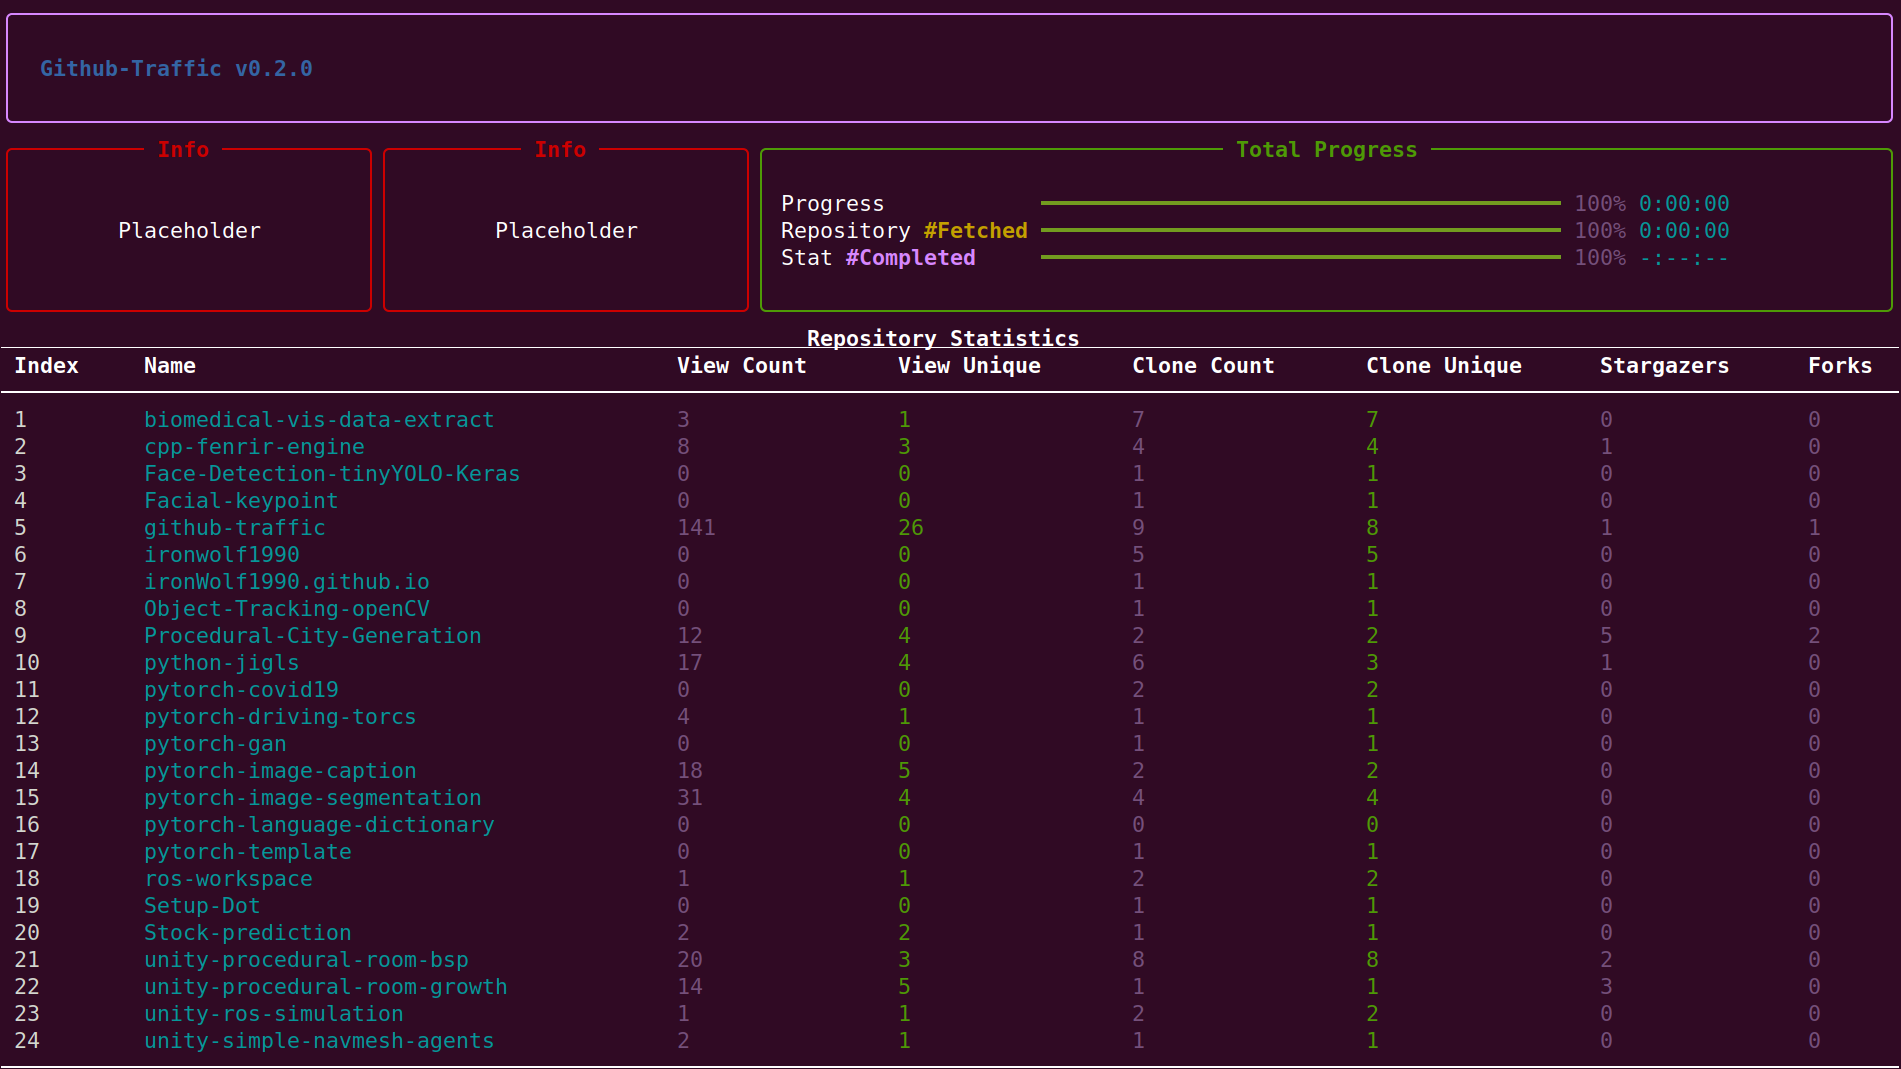
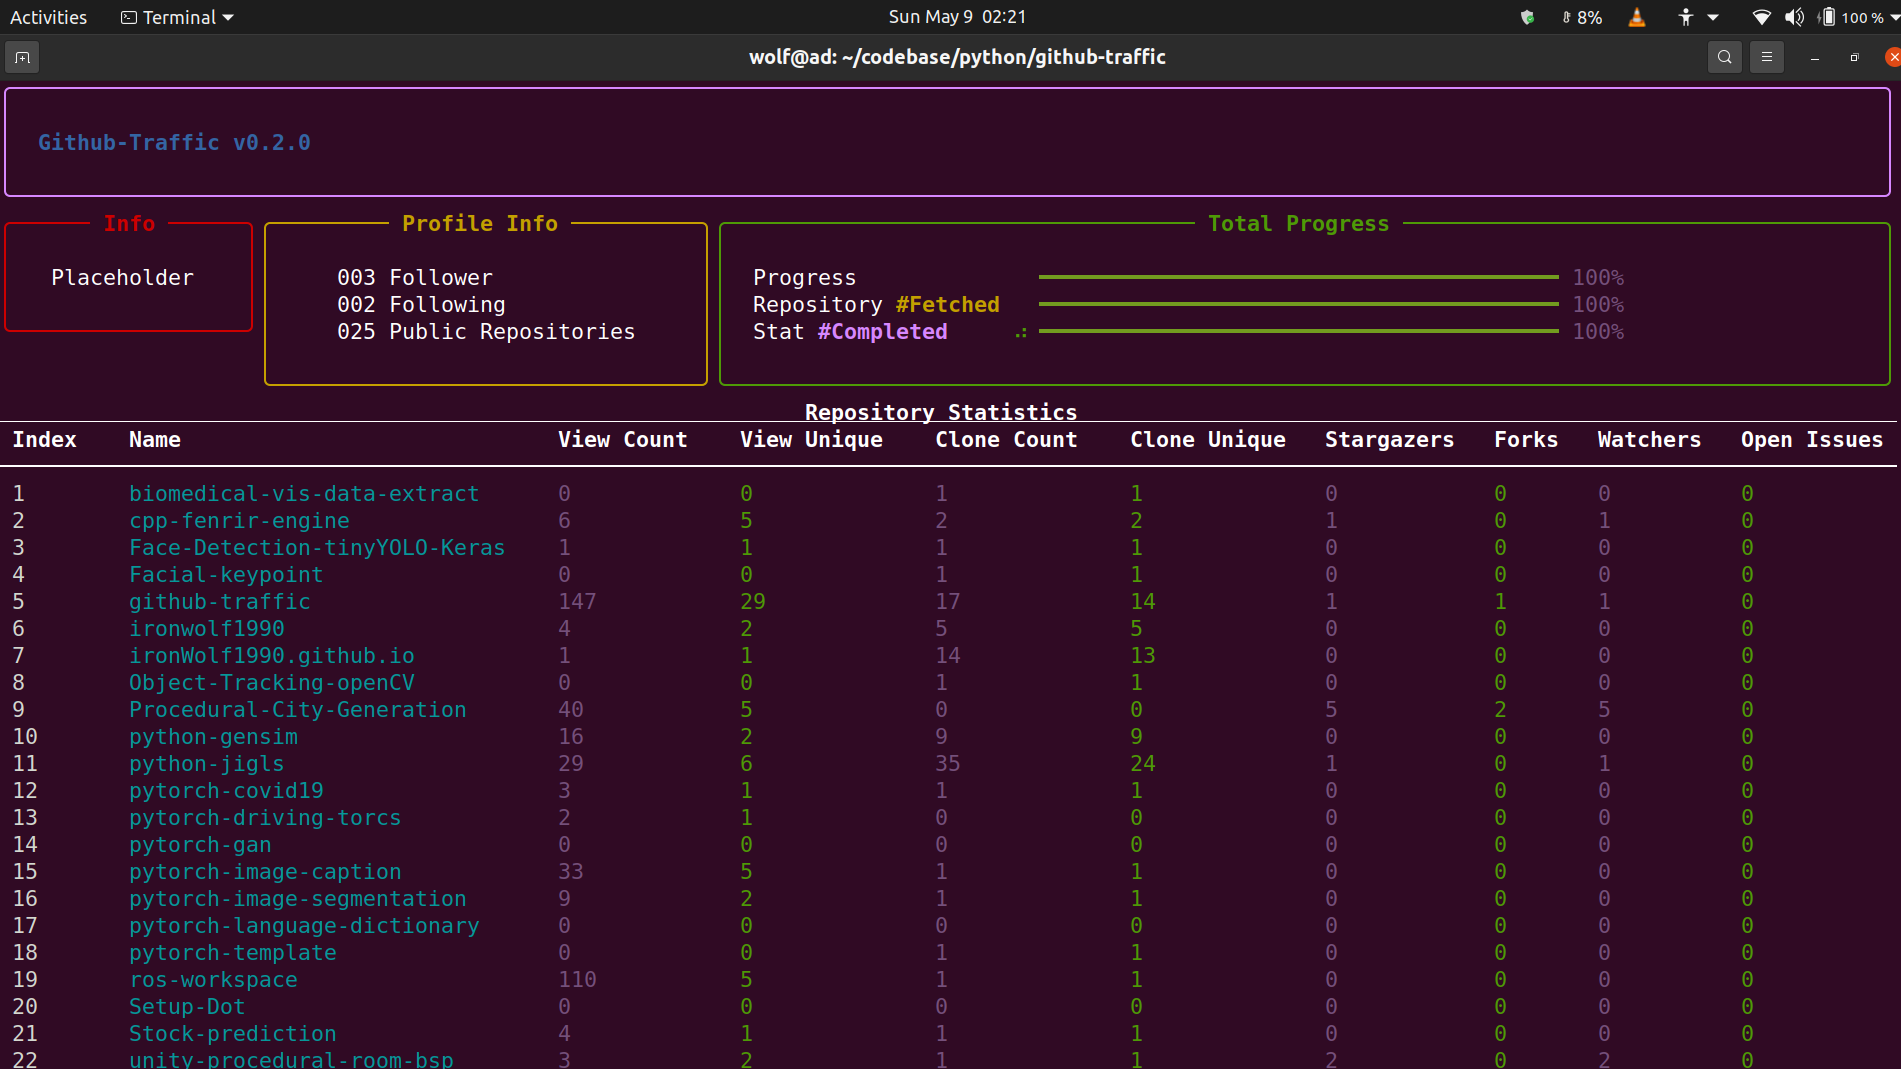
profile overview and issue count

diff --git a/src/record.py b/src/record.py
@@ -13,13 +13,11 @@ from .dataclass import ntClone, ntPath, ntReferral, ntView, ntRepo
 
 class Record:
     def __init__(self) -> None:
-        self.info: Dict[str, Optional[ntRepo]] = dict()
-        self.referrals: Dict[str, Optional[ntReferral]] = dict()
-        self.paths: DefaultDict[
-            str, Optional[List[ntPath]]
-        ] = defaultdict()
-        self.views: Dict[str, Optional[ntView]] = dict()
-        self.clones: Dict[str, Optional[ntClone]] = dict()
+        self.info: Dict[str, ntRepo] = dict()
+        self.referrals: Dict[str, ntReferral] = dict()
+        self.paths: DefaultDict[str, List[ntPath]] = defaultdict()
+        self.views: Dict[str, ntView] = dict()
+        self.clones: Dict[str, ntClone] = dict()
 
         self.table = Table(
             title="Repository Statistics",
@@ -38,7 +36,9 @@ class Record:
         self.table.add_column("Clone Count", style="magenta")
         self.table.add_column("Clone Unique", style="green")
         self.table.add_column("Stargazers", style="magenta")
-        self.table.add_column("Forks", style="magenta")
+        self.table.add_column("Forks", style="green")
+        self.table.add_column("Watchers", style="magenta")
+        self.table.add_column("Open Issues", style="green")
 
     def RecordHandler(self, event: NamedTuple):
         pass
@@ -48,9 +48,7 @@ class Record:
     ) -> RenderResult:
 
         assert (
-            len(self.views.keys())
-            == len(self.clones.keys())
-            == len(self.info.keys())
+            len(self.views.keys()) == len(self.clones.keys()) == len(self.info.keys())
         )
 
         for index, keyv in enumerate(self.views.keys()):
@@ -63,6 +61,8 @@ class Record:
                 str(self.clones[keyv].uniques),
                 str(self.info[keyv].stargazers_count),
                 str(self.info[keyv].forks_count),
+                str(self.info[keyv].watchers_count),
+                str(self.info[keyv].open_issues_count),
             )
 
         yield self.table

diff --git a/src/display.py b/src/display.py
@@ -8,13 +8,27 @@ from rich.text import Text
 
 
 class TrafficProgress:
-    def __init__(self, numRepos: int, numStat: int = 5) -> None:
+    def __init__(
+        self,
+        numRepos: int,
+        follower: int = 0,
+        following: int = 0,
+        numStat: int = 5,
+    ) -> None:
 
         self.numStat = numStat
         self.numRepos = numRepos
+        self._profileText = Text(
+            f"{follower:03d} Follower\n{following:03d} Following\n{numRepos:03d} Public Repositories"
+        )
 
         self.progressTable = Table.grid(expand=True)
-        self.progressTotal = Progress()
+        self.progressTotal = Progress(
+            "{task.description}",
+            SpinnerColumn(),
+            BarColumn(),
+            TextColumn("[progress.percentage]{task.percentage:>3.0f}%"),
+        )
 
         self.progressTable.add_row(
             Panel(
@@ -26,25 +40,19 @@ class TrafficProgress:
                 ),
                 title="[b]Info",
                 border_style="red",
-                padding=(2, 6),
+                padding=(1, 1),
             ),
             Panel(
-                Align.center(
-                    Text(
-                        """Placeholder""",
-                        justify="center",
-                    )
-                ),
-                title="[b]Info",
-                border_style="red",
-                padding=(2, 6),
+                Align.center(self._profileText),
+                title="[b]Profile Info",
+                border_style="yellow",
+                padding=(1, 1),
             ),
             Panel(
                 self.progressTotal,  # type:ignore
                 title="[b]Total Progress",
                 border_style="green",
-                padding=(1, 1),
-                expand=True,
+                padding=(1, 2),
             ),
         )
 

diff --git a/run.py b/run.py
@@ -24,16 +24,13 @@ def main(args):
 
     instanceRecord = Record()
 
-    instanceRQ = RequestHandler(
-        username=username, token=token, register=APIRegister()
-    )
+    instanceRQ = RequestHandler(username=username, token=token, register=APIRegister())
 
     # ! might display on header panel
     userInfo = instanceRQ(
         call="userInfo",
         args={},
     )
-    print("----", userInfo)
 
     # * init from here
 
@@ -44,7 +41,11 @@ def main(args):
 
     assert isinstance(repos, list)
 
-    instanceConsole = TrafficProgress(numRepos=len(repos))
+    instanceConsole = TrafficProgress(
+        numRepos=len(repos),
+        follower=userInfo.followers,  # type:ignore
+        following=userInfo.following,  # type:ignore
+    )
 
     instanceConsole.progressTotal.console.print(
         Panel(
@@ -79,9 +80,7 @@ def main(args):
                 args={"repo": repo.name},
             )
             instanceConsole.UpdateStatDescription("referrers")
-            instanceRecord.referrals.update(
-                {repo.name: ret}
-            )  # type:ignore
+            instanceRecord.referrals.update({repo.name: ret})  # type:ignore
             instanceConsole.StepTotal()
             instanceConsole.StepStat()
 

diff --git a/src/gitapi.py b/src/gitapi.py
@@ -5,6 +5,7 @@ from urllib.request import Request, urlopen
 from collections import OrderedDict, namedtuple
 
 from .dataclass import *
+from pprint import pprint
 
 
 class APIRegister:
@@ -95,9 +96,7 @@ class RequestHandler:
         return json.load(request.urlopen(req))
 
     # ? making it a __call__ enables to be used as a decorator in the future!!
-    def __call__(
-        self, call, args: Dict
-    ) -> Union[NamedTuple, List[NamedTuple], None]:
+    def __call__(self, call, args: Dict) -> Union[NamedTuple, List[NamedTuple], None]:
 
         api = self.apiRegister.GetAPI(call)
         if api is None:

diff --git a/src/dataclass.py b/src/dataclass.py
@@ -41,6 +41,8 @@ ntRepo = NamedTuple(
         ("name", str),
         ("stargazers_count", int),
         ("forks_count", int),
+        ("open_issues_count", int),
+        ("watchers_count", int),
     ],
 )
 

diff --git a/README.md b/README.md
@@ -11,6 +11,7 @@ A simple python program that fetches users repository traffic and insight
 <p align="center">
     <img  height="300" src="docs/images/demo.png">
 </p>
+
 ### Usage
 
 **`python3 cli.py --config=config/demo.conf`**
